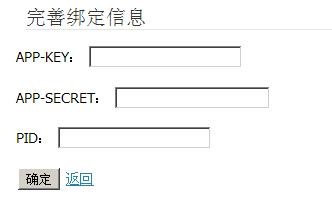
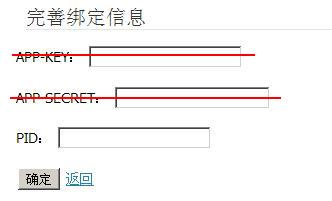
将操作说明中的建站取消，以及其它适当完善

Changed region(s): [[0.0301, 0.2388, 0.7831, 0.2985], [0.0301, 0.4776, 0.8434, 0.5075], [0.0602, 0.6567, 0.0904, 0.7164]]

diff --git a/op.html b/op.html
@@ -41,32 +41,19 @@
     <li>申请淘宝账号，支付宝账号，并登陆<a target="_blank" href="http://www.alimama.com/">阿里妈妈</a>网站<br/>
     账号需要通过支付宝认证，查看你的推广账户ID（也称PID)。<br/>
     <p><font color="green">例如：“mm_12345678_0_0”</font><p>
-    </li>
-    <li>申请一个虚拟空间和域名<br/>
-    二级域名也可以，用于淘宝开放平台（open.taobao.com）的认证及推广网站的建立。<br/>
-    空间及域名申请站如：http://www.dns-sz.com/（费用约200元），免费二级域名申请站如：http://www.3v.cm/<br/>
-    <p><font color="red">注意：建立推广网站是为了规避可能来自淘宝的收入来源审查（每月入账3万元以上）。前期只用于淘宝开放平台认证，可不建站。</font><p>
-    </li>
-    <li>进入<a target="_blank" href="http://open.taobao.com/">淘宝开放平台</a>认证，并获得证书<br/>
-    加入开放平台—应用管理—网站列表—添加网站—填写网站名、网站域名及网站验证—通过验证获取APP证书“App Key”和“App Secret”<br/>
-    <p><font color="green">例如：“App Key: 12345678”“App Secret: 1234ce5a2a1cc97dd3d14d78234c56e4”</font><p>
-    <p><font color="red">注意：网站证书一定要有【淘宝客初级包】的权限。</font><p>
-    <p><img width="640" height="300" src="images/cert.jpg"></img></p>
-    </li>
-    <li>申请【淘宝客初级包】请按下图编写申请理由并提交<br/>
-    <p><img width="640" height="300" src="images/cert2.jpg"></img></p>
-    <p><img width="640" height="300" src="images/cert3.jpg"></img></p>
+    <p><img src="images/pid.jpg"></img></p>
     </li>
 </ol>
 <h3>进入系统并绑定账号</h3>
 <ol>
     <li>登陆<a target="_blank" href="http://hunter.2dash.com/manager">网络捕手系统</a>，设定你的淘宝账号等相关信息。
     <p><img src="images/complete.jpg"></img></p>
+    <p><font color="green">只需要填写PID即可，APP-KEY/APP-SECRET可以不忽略</font><p>
     <p><img src="images/complete2.jpg"></img></p>
     </li>
 </ol>
-<h3>等待账号激活</h3>
-<p>等待账号激活！激活状态可以联系客服专线QQ：2911641966</p>
+<h3>账号激活</h3>
+<p>系统会<font color="green">自动激活账户</font>！激活状态可以联系客服专线QQ：2911641966</p>
 <h3>下载绑定了你账户的插件，在自己或者其它电脑上安装。</h3>
 <p><img width="640" height="300" src="images/ext-ie.png"></img></p>
 <p><font color="red">注意：IE插件安装后请将插件文件目录添加到杀毒软件的信任列表。</font><p>
